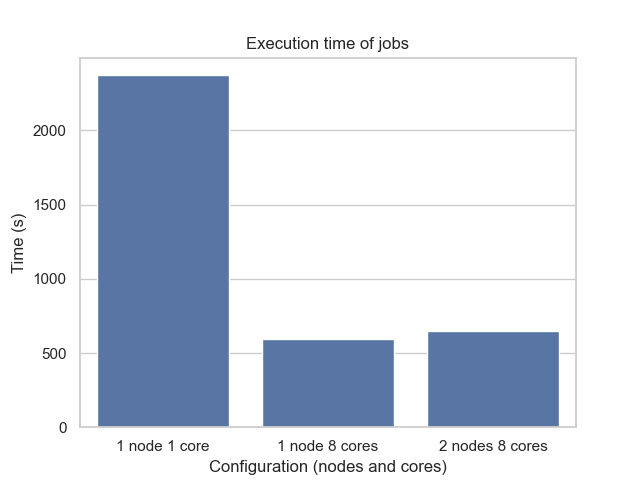
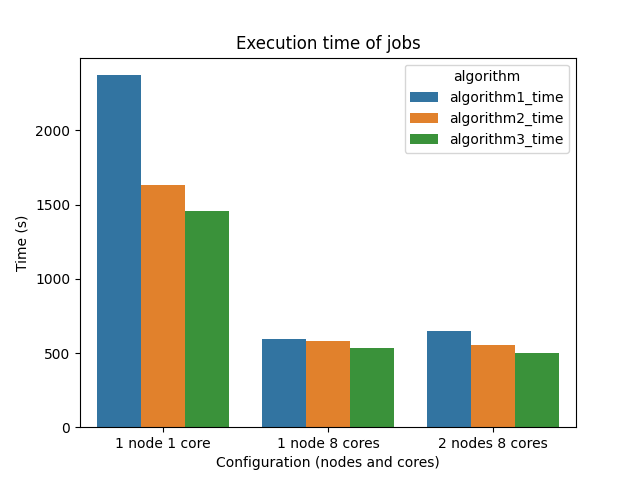
feat: test regex performance

diff --git a/process_twitter_data2.py b/process_twitter_data2.py
@@ -1,0 +1,55 @@
+import sys
+from collections import defaultdict
+from datetime import datetime
+
+from mpi4py import MPI
+
+from process_utils import get_created_time_re, get_sentiment_re, to_day, to_hour
+
+
+def single_process(filename: str) -> None:
+    """process and print the results in a single process"""
+    hour_sentiment: dict[datetime, float] = defaultdict(float)
+    day_sentiment: dict[datetime, float] = defaultdict(float)
+    hour_tweets: dict[datetime, int] = defaultdict(int)
+    day_tweets: dict[datetime, int] = defaultdict(int)
+
+    with open(filename, encoding="utf-8") as f:
+        # process the data line by line
+        for line in f:
+            # the first and last line of the file do not end with ",\n"
+            if not line.endswith(",\n"):
+                continue
+
+            created_time = get_created_time_re(line)
+            if created_time is None:
+                continue
+            hour = to_hour(created_time)
+            day = to_day(created_time)
+            sentiment = get_sentiment_re(line)
+
+            hour_tweets[hour] += 1
+            day_tweets[day] += 1
+            if sentiment is not None:
+                hour_sentiment[hour] += sentiment
+                day_sentiment[day] += sentiment
+
+    # print the results
+    print(f"happiest hour: {max(hour_sentiment, key=lambda k :hour_sentiment[k])}")
+    print(f"happiest day: {max(day_sentiment, key=lambda k :day_sentiment[k])}")
+    print(f"most active hour: {max(hour_tweets, key=lambda k :hour_tweets[k])}")
+    print(f"most active day: {max(day_tweets, key=lambda k :day_tweets[k])}")
+
+
+# read the filename from the command line
+filename = sys.argv[1]
+
+comm = MPI.COMM_WORLD
+rank = comm.rank
+size = comm.size
+
+if size == 1:
+    # if only one process, run the single process code
+    single_process(filename)
+else:
+    raise NotImplementedError("Only one process is supported")

diff --git a/plot.py b/plot.py
@@ -2,11 +2,9 @@ import matplotlib.pyplot as plt
 import polars as pl
 import seaborn as sns
 
-sns.set_theme(style="whitegrid")
-
-time_1n1c = "39m32.343s"
-time_1n8c = "9m55.108s"
-time_2n8c = "10m47.546s"
+time_1n1c_list = ["39m32.343s", "27m10.711s", "24m15.404s"]
+time_1n8c_list = ["9m55.108s", "9m39.067s", "8m52.014s"]
+time_2n8c_list = ["10m47.546s", "9m13.522s", "8m17.379s"]
 
 
 def parse_time_as_seconds(time_str: str) -> float:
@@ -18,16 +16,31 @@ def parse_time_as_seconds(time_str: str) -> float:
 df = pl.DataFrame(
     {
         "config": ["1 node 1 core", "1 node 8 cores", "2 nodes 8 cores"],
-        "time": [
-            parse_time_as_seconds(time_1n1c),
-            parse_time_as_seconds(time_1n8c),
-            parse_time_as_seconds(time_2n8c),
+        "algorithm1_time": [
+            parse_time_as_seconds(time_1n1c_list[0]),
+            parse_time_as_seconds(time_1n8c_list[0]),
+            parse_time_as_seconds(time_2n8c_list[0]),
+        ],
+        "algorithm2_time": [
+            parse_time_as_seconds(time_1n1c_list[1]),
+            parse_time_as_seconds(time_1n8c_list[1]),
+            parse_time_as_seconds(time_2n8c_list[1]),
+        ],
+        "algorithm3_time": [
+            parse_time_as_seconds(time_1n1c_list[2]),
+            parse_time_as_seconds(time_1n8c_list[2]),
+            parse_time_as_seconds(time_2n8c_list[2]),
         ],
     }
 )
 
-ax = sns.barplot(data=df, x="config", y="time")
+df = df.melt(id_vars=["config"], value_name="time", variable_name="algorithm")
+print(df)
+
+# sns.set_theme(style="whitegrid")
+ax = sns.barplot(data=df, x="config", y="time", hue="algorithm")
 ax.set_title("Execution time of jobs")
 ax.set_xlabel("Configuration (nodes and cores)")
 ax.set_ylabel("Time (s)")
 plt.savefig("execution_time.png")
+# plt.show()

diff --git a/process_utils.py b/process_utils.py
@@ -1,3 +1,4 @@
+import re
 from datetime import datetime
 from typing import Any
 
@@ -35,3 +36,37 @@ def get_day(row: dict[str, Any]) -> datetime | None:
         return parsed.replace(hour=0, minute=0, second=0, microsecond=0)
     except KeyError:
         return None
+
+
+# NOTE: The following code is not used in the final version of the code
+
+
+sentiment_pattern = re.compile(r'"sentiment":\s*(-?\d+\.?\d*)')
+created_time_pattern = re.compile(
+    r'"created_at":\s*"(\d{4}-\d{2}-\d{2}T\d{2}:\d{2}:\d{2}\.\d{3}Z)"'
+)
+
+
+def get_sentiment_re(line: str) -> float | None:
+    """get the sentiment from the row, return None if it does not exist"""
+    m = sentiment_pattern.search(line)
+    if m is None:
+        return None
+    else:
+        return float(m.group(1))
+
+
+def get_created_time_re(line: str) -> datetime | None:
+    m = created_time_pattern.search(line)
+    if m is None:
+        return None
+    else:
+        return datetime.strptime(m.group(1), "%Y-%m-%dT%H:%M:%S.%fZ")
+
+
+def to_day(date: datetime) -> datetime:
+    return date.replace(hour=0, minute=0, second=0, microsecond=0)
+
+
+def to_hour(date: datetime) -> datetime:
+    return date.replace(minute=0, second=0, microsecond=0)

diff --git a/process_twitter_data1.py b/process_twitter_data1.py
@@ -37,7 +37,7 @@ filename = sys.argv[1]
 if rank == 0:
     start = time.time()
     total_lines = count_lines(filename)
-    print(f"Time for counting lines: {time.time() - start}s")
+    print(f"Time for counting lines on rank {rank}: {time.time() - start}s")
 else:
     total_lines = 0
 total_lines = comm.bcast(total_lines, root=0)
@@ -66,7 +66,7 @@ for line in lines:
         hour_tweets[hour] += 1
         if sentiment is not None:
             hour_sentiment[hour] += sentiment
-print(f"Time for processing lines: {time.time() - start}s")
+print(f"Time for processing lines on rank {rank}: {time.time() - start}s")
 
 hour_sentiment_list = comm.gather(hour_sentiment, root=0)
 day_sentiment_list = comm.gather(day_sentiment, root=0)
@@ -107,4 +107,4 @@ if rank == 0:
     print(
         f"most active day: {max(merged_day_tweets, key=lambda k :merged_day_tweets[k])}"
     )
-    print(f"Time for merging results: {time.time() - start}s")
+    print(f"Time for merging results on rank {rank}: {time.time() - start}s")
